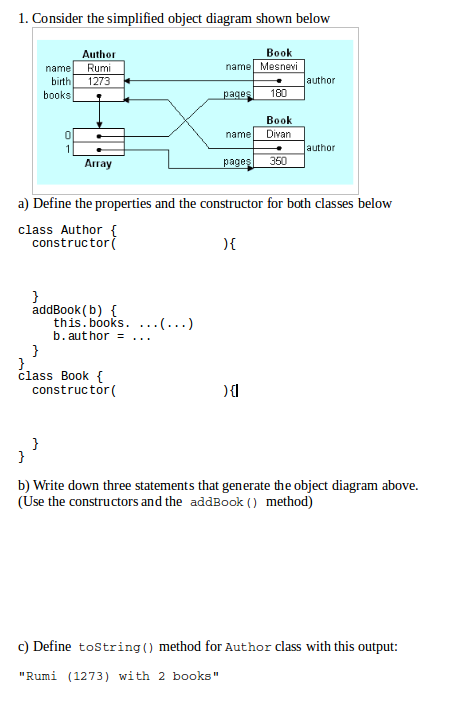
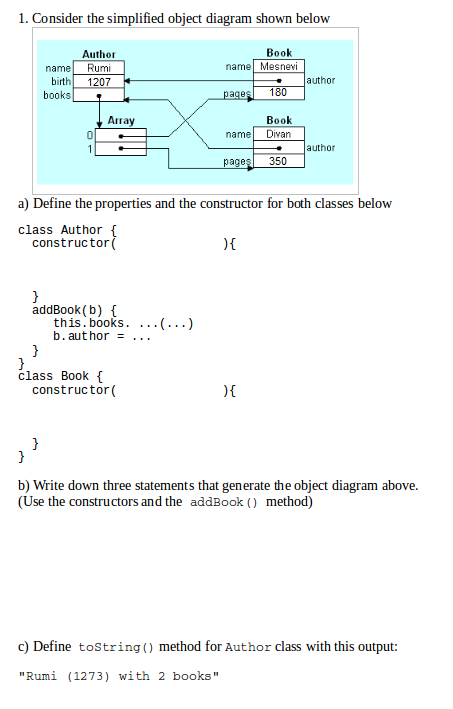
minor corrections
* button always enabled
* Quiz image modified
* Rumi birth 1207

diff --git a/work/ObjectList.html b/work/ObjectList.html
@@ -21,8 +21,7 @@
 <input type=button id=convert value=Convert onclick="toList()">
 </b>
 <p>
-  <textarea id=inp onchange="convert.disabled=false" rows=10 cols=50 >
-  </textarea>
+  <textarea id=inp rows=10 cols=50 ></textarea>
 </p>
 <b>JSON output</b>
 <pre id=out></pre>
@@ -46,7 +45,6 @@ function toList(str) {
   }
     if (str) inp.value = str
     else str = inp.value
-    convert.disabled = true
     let [d0, ...data] = str.split('\n')
     let keys = d0.split('\t')
     console.log("Keys:", keys)

diff --git a/exam/Quiz.js b/exam/Quiz.js
@@ -35,7 +35,7 @@ class Quiz extends Menu {
     this.data = a.books.concat(a.books)
   }
   solution() {
-    let a = new Author("Rumi", 1273)
+    let a = new Author("Rumi", 1207)
     a.addBook(new Book("Mesnevi", 180))
     a.addBook(new Book("Divan", 350))
     return a

diff --git a/work/Inspector.html b/work/Inspector.html
@@ -4,7 +4,7 @@
     <meta charset="UTF-8">
     <meta name="viewport" content="width=device-width">
     <link rel="icon" href="../images/icon192.png">
-    <title>Eloquent JavaScript </title>
+    <title>Inspector </title>
 
     <style>
         body { max-width: 600px; }
